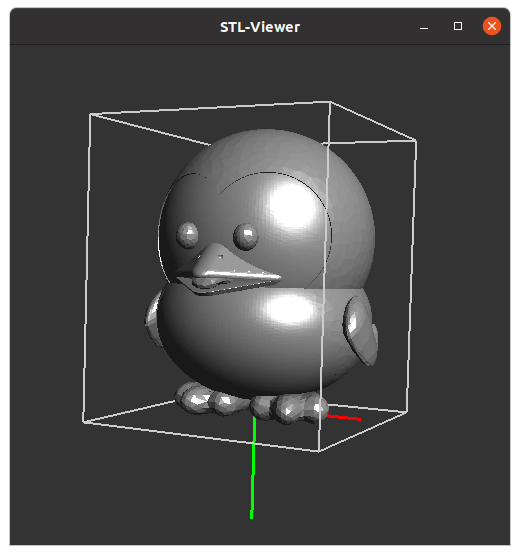
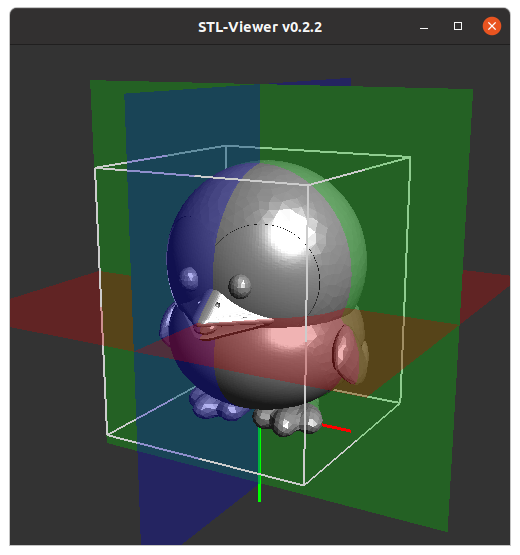
v0.2.2  Hauptebenen eingebracht

diff --git a/basicelement.hpp b/basicelement.hpp
@@ -2,7 +2,7 @@
  * @file basicelement.hpp
  * @author Ulrich Büttemeier
  * @brief basics zeigt Koordiatenkreuz, Max-Quader, ....
- * @version v0.0.5
+ * @version v0.0.6
  * @date 2021-09-15
  */
 
@@ -25,6 +25,7 @@ public:
     basics(float axeslength = 1.0f);
     ~basics();
     void set_max_quader (float *min, float *max);
+    void set_hauptebene (float *center, float axeslength = 1.0f);
     void display();
 
     static bool draw_basics;
@@ -33,12 +34,16 @@ private:
 
     vector <struct _vertex_small_> ursprung;
     vector <struct _vertex_small_> max_quader;
+    vector <struct _vertex_> haupt_ebene;
 
     GLuint koor_vaoID[1] = {0};    // VAO für Koordinatenkreuz
     GLuint koor_vboID[1] = {0};    // VBO für Koordinatenkreuz
 
     GLuint quad_vaoID[1] = {0};    // VAO für MIN/MAX Quader
     GLuint quad_vboID[1] = {0};    // VBO für MIN/MAX Quader
+
+    GLuint hauptebe_vaoID[1] = {0};    // VAO für Hauptebenen
+    GLuint hauptebe_vboID[1] = {0};    // VBO für Hauptebenen
 };
 
 bool basics::draw_basics = 1;
@@ -200,6 +205,73 @@ void basics::set_max_quader (float *min, float *max)
         cout << "  WARNING: set_max_quader() ist schon installiert\n";
 }
 
+/*************************************************************************
+ */
+void basics::set_hauptebene (float *center, float axeslength)
+{
+    struct _vertex_ v;
+
+    // ---------- XY Plane -------------
+    vec4set (0.0, 0.8, 0.0, 0.3, v.c);
+    vec3set (0, 0, 1, v.n);
+
+    vec3set (center[0]+axeslength, center[1]+axeslength, center[2], v.v);
+    haupt_ebene.push_back (v);
+    vec3set (center[0]+axeslength, center[1]-axeslength, center[2], v.v);
+    haupt_ebene.push_back (v);
+    vec3set (center[0]-axeslength, center[1]-axeslength, center[2], v.v);
+    haupt_ebene.push_back (v);
+    vec3set (center[0]-axeslength, center[1]+axeslength, center[2], v.v);
+    haupt_ebene.push_back (v);
+
+    // ---------- YZ Plane -------------
+    vec4set (0.0, 0.0, 0.8, 0.3, v.c);
+    vec3set (1, 0, 0, v.n);
+
+    vec3set (center[0], center[1]+axeslength, center[2]+axeslength, v.v);
+    haupt_ebene.push_back (v);
+    vec3set (center[0], center[1]+axeslength, center[2]-axeslength, v.v);
+    haupt_ebene.push_back (v);
+    vec3set (center[0], center[1]-axeslength, center[2]-axeslength, v.v);
+    haupt_ebene.push_back (v);
+    vec3set (center[0], center[1]-axeslength, center[2]+axeslength, v.v);
+    haupt_ebene.push_back (v);
+
+    // ---------- XZ Plane -------------
+    vec4set (0.8, 0.0, 0.0, 0.3, v.c);
+    vec3set (0, 1, 0, v.n);
+
+    vec3set (center[0]+axeslength, center[1], center[2]+axeslength, v.v);
+    haupt_ebene.push_back (v);
+    vec3set (center[0]+axeslength, center[1], center[2]-axeslength, v.v);
+    haupt_ebene.push_back (v);
+    vec3set (center[0]-axeslength, center[1], center[2]-axeslength, v.v);
+    haupt_ebene.push_back (v);
+    vec3set (center[0]-axeslength, center[1], center[2]+axeslength, v.v);
+    haupt_ebene.push_back (v);
+
+    glGenVertexArrays(1, hauptebe_vaoID);  // create the Vertex Array Objects
+    glGenBuffers(1, hauptebe_vboID);       // generating Vertex Buffer Objects (VBO)
+
+    glBindVertexArray(hauptebe_vaoID[0]);                    // VAO 0
+    glBindBuffer(GL_ARRAY_BUFFER, hauptebe_vboID[0]);        // VBO 0
+    glBufferData(GL_ARRAY_BUFFER, haupt_ebene.size() *sizeof(struct _vertex_), haupt_ebene.data(), GL_STATIC_DRAW);
+
+    int stride = sizeof(struct _vertex_);           // int stride = sizeof(Vertex);
+    char *offset = (char*)NULL;
+
+    glVertexPointer(3, GL_FLOAT, stride, offset);   // position  3*float
+    glEnableClientState(GL_VERTEX_ARRAY);
+    
+    offset = (char*)NULL + 3*sizeof(float);
+    glNormalPointer (GL_FLOAT, stride, offset);     // normal
+    glEnableClientState(GL_NORMAL_ARRAY);
+
+    offset = (char*)NULL + 6*sizeof(float);         // color
+    glColorPointer(4, GL_FLOAT, stride, offset);    // 4*float
+    glEnableClientState(GL_COLOR_ARRAY);
+}
+
 /*********************************************************************
  * @brief   call by glutDisplayFunc()
  */
@@ -220,6 +292,14 @@ void basics::display()
         glLineWidth (2);
         glDrawArrays(GL_LINES, 0, max_quader.size());   // render data
     }
+
+    if (hauptebe_vaoID[0] != 0) {
+        glDisable ( GL_CULL_FACE );
+        glBindVertexArray(hauptebe_vaoID[0]);             // bind pyramid VAO
+        glDrawArrays(GL_QUADS, 0, max_quader.size());   // render data
+        glEnable ( GL_CULL_FACE );
+    }
+
     glEnable (GL_LIGHTING);
 }
 

diff --git a/main.cpp b/main.cpp
@@ -7,7 +7,7 @@
  *       Hierzu die Funktionen get_3D_from_view() und get_2D_from_3Dkoor() verwenden.
  */
 
-#define VERSION "v0.2.1"
+#define VERSION "v0.2.2"
 
 #define USE_FULL_SCREEN_
 
@@ -73,7 +73,7 @@ void help()
     cout << "t : draw triangles ON/OFF\n";
     cout << "l : draw lines ON/OFF\n";
     cout << "p : draw points ON/OFF\n";
-    cout << "a : draw axis ON/OFF\n";
+    cout << "a : draw axis, Max, planes ON/OFF\n";
     cout << "f : Model einpassen (fit in)\n";
     cout << "v : Vorderansicht XY-plane\n";
     cout << "d : Draufsicht XZ-plane\n";
@@ -269,10 +269,10 @@ static void glutDisplay()
                 look_at[0], look_at[1], look_at[2],     // center
                 up[0], up[1], up[2] );                  // up
 
-    basic->display();
-
     for (size_t i=0; i<stlcmd::allstl.size(); i++) 
         stlcmd::allstl[i]->display();
+
+    basic->display();
 
     glutSwapBuffers();
     glutReportErrors();
@@ -638,14 +638,15 @@ int main(int argc, char **argv)
     for (int i=1; i<argc; i++) 
         new stlcmd( argv[i] );      // read stl-data
 
-    basic = new basics(stlcmd::obj_radius * 0.5f);
-    basic->set_max_quader (stlcmd::min_ges, stlcmd::max_ges);
+    basic = new basics(stlcmd::obj_radius * 0.5f);                      // Koordinatenkreus anlegen
+    basic->set_max_quader (stlcmd::min_ges, stlcmd::max_ges);           // MAX-Quader anlegen
+    basic->set_hauptebene (stlcmd::center_ges, stlcmd::obj_radius);     // Haupebenen anlegen.
 
     vec3print_vec ("min ges: ", stlcmd::min_ges);
     vec3print_vec ("max ges: ", stlcmd::max_ges);
     vec3print_vec ("center ges: ", stlcmd::center_ges);
     /**/ cout << "R: " << stlcmd::obj_radius << endl;
-    /**/ cout << "Anz. triangle: " << stlcmd::get_anz_triangle() << endl;
+    /**/ cout << "Anz. triangle: " << stlcmd::get_anz_all_triangle() << endl;
 
     fit_in();                       // Model einpassen
 

diff --git a/stlcmd.hpp b/stlcmd.hpp
@@ -1,7 +1,7 @@
 /**
  * @file stlcmd.cpp
  * @author Ulrich Buettemeier
- * @version v0.0.14
+ * @version v0.0.15
  * @date 2021-09-12
  */
 
@@ -51,11 +51,12 @@ public:
     void set_color (float *c);
     void set_color (float r, float g, float b, float a);
 
+// ------------- static functions ------------------------------
     static void *operator new (std::size_t size);
     static vector<stlcmd *> allstl;
     static void init_stlcmd();
     static void clear_allstl();
-    static uint64_t get_anz_triangle();
+    static uint64_t get_anz_all_triangle();
 
 private:
     size_t grep_index (uint32_t surch_id);
@@ -222,7 +223,7 @@ void stlcmd::clear_allstl()
 /**************************************************************
  * @brief   Function ermittelt Anzahl aller triangles
  */
-uint64_t stlcmd::get_anz_triangle()
+uint64_t stlcmd::get_anz_all_triangle()
 {
     uint64_t ret = 0;
     for (size_t i=0; i<allstl.size(); i++) 

diff --git a/README.md b/README.md
@@ -16,7 +16,7 @@ k : show special key's
 t : draw triangles ON/OFF
 l : draw lines ON/OFF
 p : draw points ON/OFF
-a : draw axis ON/OFF
+a : draw axis, Max, planes ON/OFF
 f : Model einpassen (fit in)
 v : Vorderansicht XY-plane
 d : Draufsicht XZ-plane
